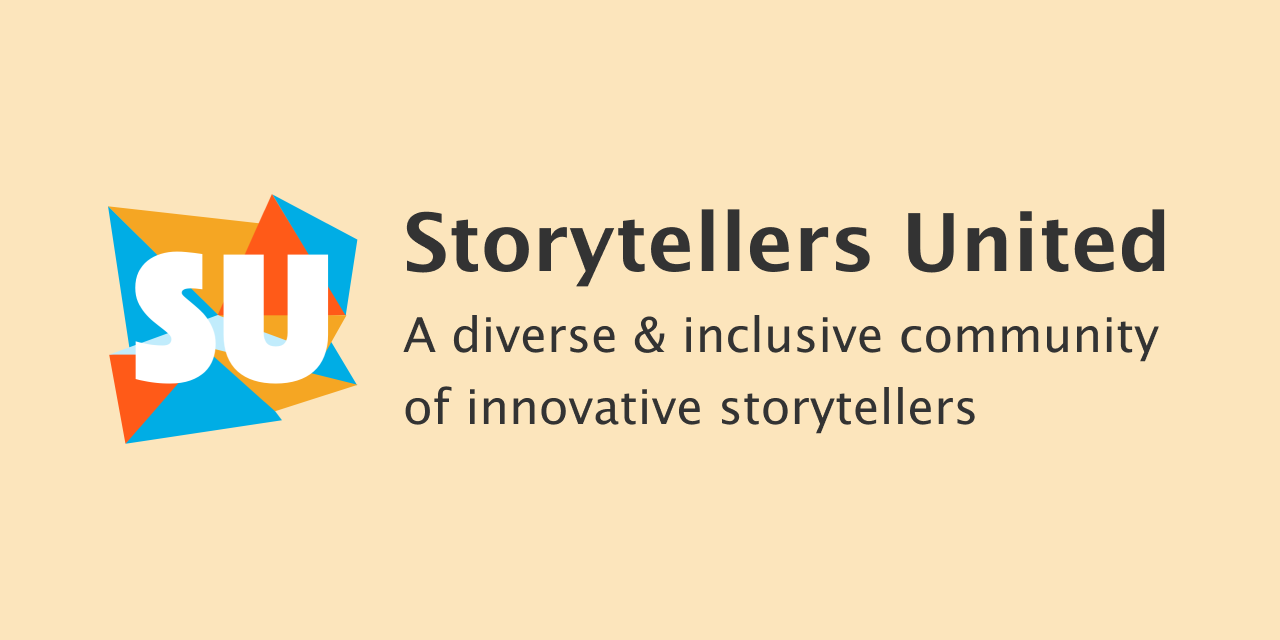
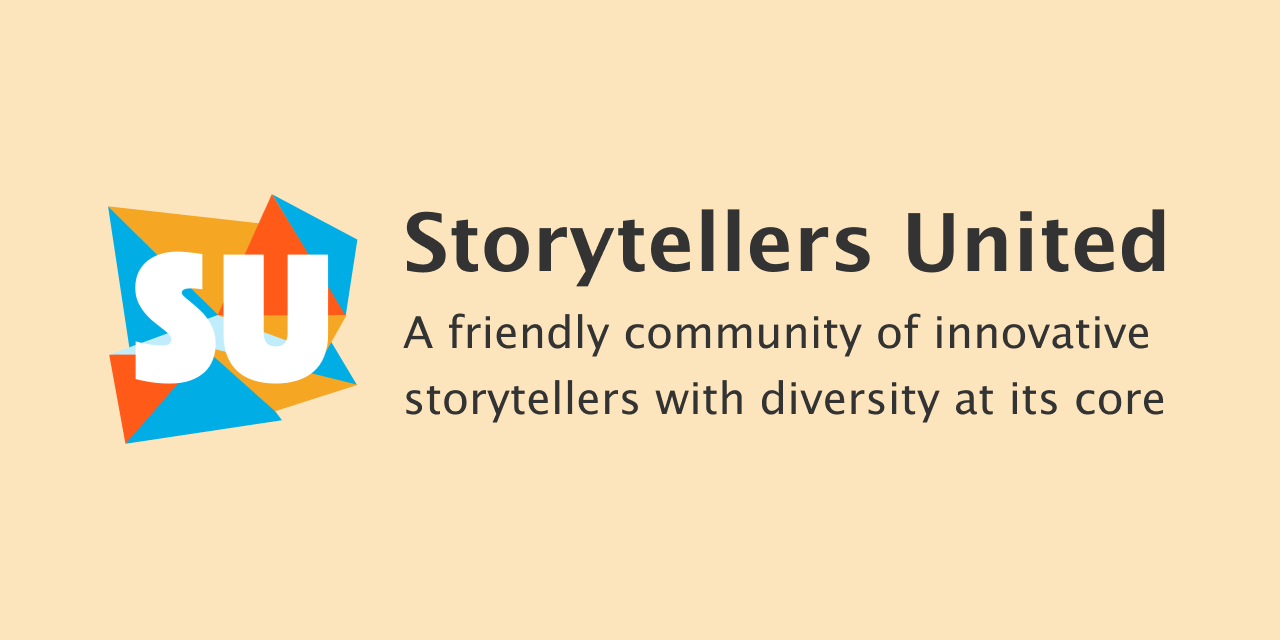
tweak slogan

Changed region(s): [[0.3125, 0.5938, 0.9062, 0.6875], [0.3125, 0.4688, 0.9062, 0.5625]]

diff --git a/index.html b/index.html
@@ -8,14 +8,14 @@
     
     <!--  Essential META Tags -->
     <meta property="og:title" content="Storytellers United" />
-    <meta property="og:description" content="A diverse & inclusive community of innovative storytellers">
+    <meta property="og:description" content="A friendly community of innovative storytellers with diversity at its core">
     <meta property="og:type" content="website" />
     <meta property="og:url" content="https://storytellers.link/" />
     <meta property="og:image" content="https://storytellers.link/img/og-image-storytellersunited.png" />
     <meta name="twitter:card" content="summary_large_image">
     <!--  Non-Essential, But Recommended -->
     <meta property="og:site_name" content="Storytellers United">
-    <meta name="twitter:image:alt" content="Storytellers United: A diverse & inclusive community of innovative storytellers">
+    <meta name="twitter:image:alt" content="Storytellers United: A friendly community of innovative storytellers with diversity at its core">
 
     <link rel="stylesheet" href="https://unpkg.com/tachyons@4.12.0/css/tachyons.min.css"/>
     <link rel="stylesheet" type="text/css" href="./css/main.css">
@@ -32,7 +32,7 @@
     </nav>
     <div class="tc tl-l">
       <h1 class="f2 f1-m f-headline-l text-shadow-black">Storytellers United</h1>
-      <h2 class="f3 f2-m f1-l fw3 text-shadow-black">A diverse & inclusive community of innovative storytellers</h2>
+      <h2 class="f3 f2-m f1-l fw3 text-shadow-black">A friendly community of innovative storytellers with diversity at its core</h2>
       <a href="./invite" class="dib mv3 mv4-l bg-su-dark-orange no-underline white pv2 ph3 f4 f3-ns fw6 br3 boxshadow-hover">Request an invite</a>
       <div class="dib-l ml5-l mb3 mb0-ns">
         <a href="https://storytellersunited.slack.com/" class="white f4 f3-ns fw3 hover-no-underline" target="_blank">or sign in</a>

diff --git a/calendar/index.html b/calendar/index.html
@@ -11,7 +11,7 @@
   <meta name="twitter:card" content="summary_large_image">
   <!--  Non-Essential, But Recommended -->
   <meta property="og:site_name" content="Storytellers United">
-  <meta name="twitter:image:alt" content="Storytellers United: A diverse & inclusive community of innovative storytellers">
+  <meta name="twitter:image:alt" content="Storytellers United: A friendly community of innovative storytellers with diversity at its core">
 
   <link rel="stylesheet" href="https://unpkg.com/tachyons@4.12.0/css/tachyons.min.css"/>
   <link rel="stylesheet" type="text/css" href="../css/main.css">

diff --git a/README.md b/README.md
@@ -1,6 +1,6 @@
 Storytellers.link
 ===
 
-A diverse & inclusive community of innovative storytellers.
+A friendly community of innovative storytellers with diversity at its core.
 
 more soon ... 🚀
